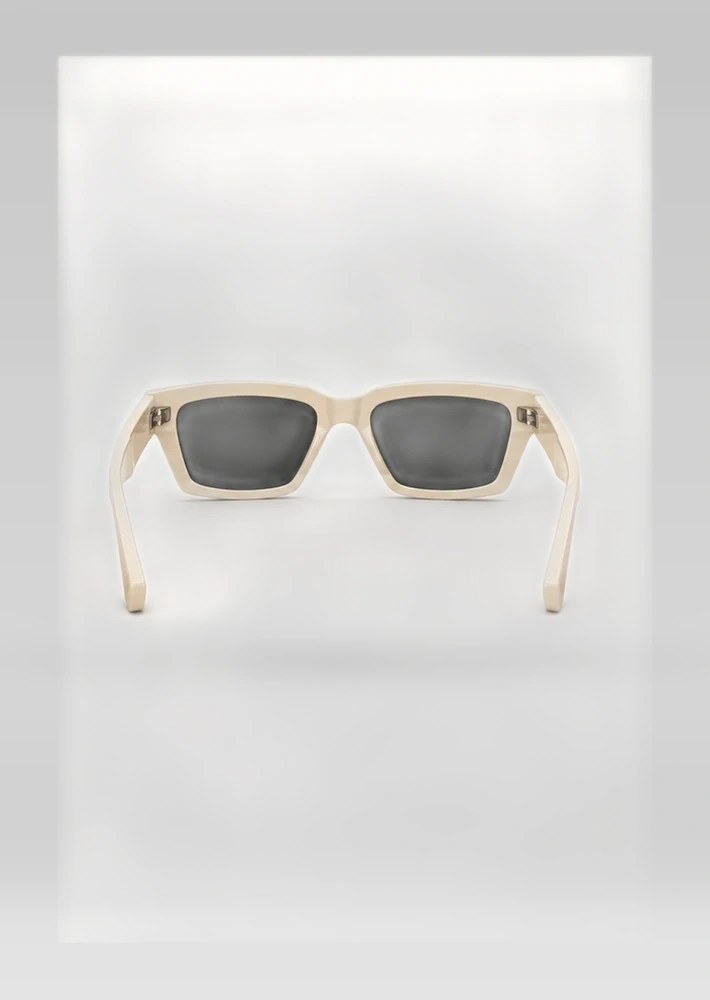
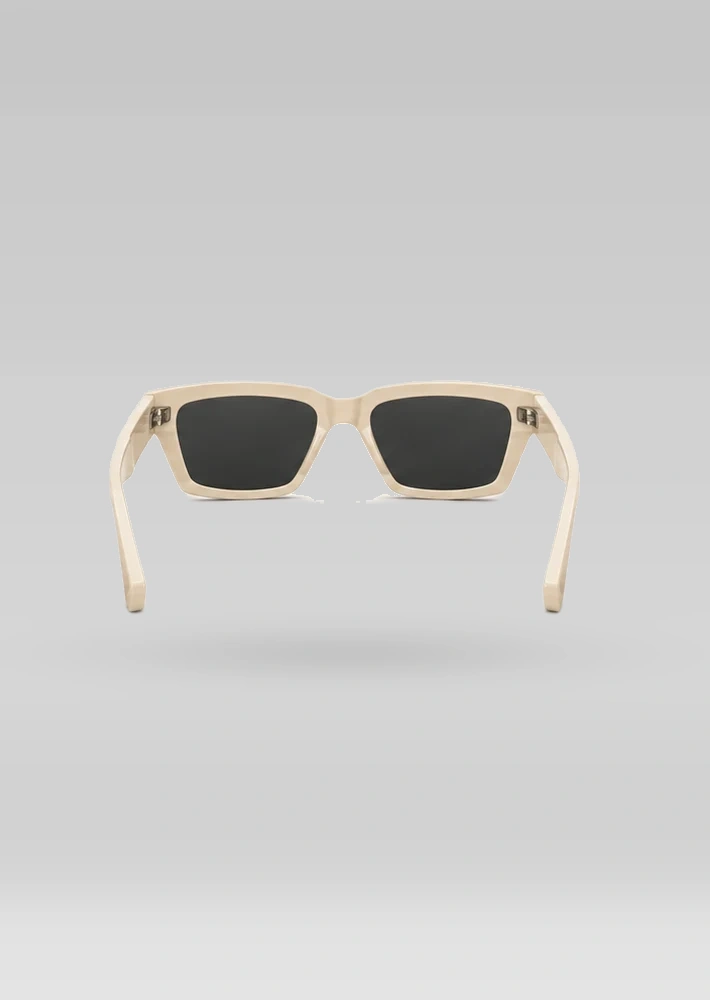
Repair four studio-grey inset background masks after visual QA

diff --git a/scripts/repair-studio-insets.py b/scripts/repair-studio-insets.py
@@ -1,0 +1,67 @@
+"""Repair four reviewed inset-panel masks using the original studio pipeline.
+
+Run after match-studio-backgrounds.py. Cropping applies only to segmentation;
+the garment pixels, output dimensions, grey profile and shadows still come
+from the existing processor. No source photograph is changed.
+"""
+import importlib.util
+import json
+from pathlib import Path
+
+import numpy as np
+from PIL import Image
+import rembg
+from scipy.ndimage import label
+
+ROOT = Path(__file__).resolve().parents[1]
+# Insets were checked visually against the original photographs.
+CROPS = {
+    'vn-pdf-p06-3-r5-c5-black-right-r04.webp': [.21, .06, .79, .94],
+    'vn-pdf-p04-3-r3-a5-bone-black-shadow-grid-right-r04.webp': [.19, .06, .80, .94],
+    'vn-p048-bone-back.webp': [.10, .06, .90, .94],
+    'pdf-p04-3-r3-a5-side.webp': [.20, .06, .80, .94],
+}
+# These enclosed background openings otherwise look like part of the object
+# to the general segmentation model. Remove only the connected, matching
+# background colour at the reviewed seed, bounded by the garment/frame.
+OPENINGS = {
+    'vn-pdf-p06-3-r5-c5-black-right-r04.webp': [.52, .27],
+    'vn-p048-bone-back.webp': [.50, .49],
+}
+spec = importlib.util.spec_from_file_location('studio', ROOT / 'scripts/match-studio-backgrounds.py')
+studio = importlib.util.module_from_spec(spec)
+spec.loader.exec_module(studio)
+original_remove = rembg.remove
+mapping = json.loads((ROOT / 'lib/product-photo-assets.json').read_text())
+
+for source in mapping:
+    name = Path(source).name
+    if name not in CROPS:
+        continue
+    fractions = CROPS[name]
+
+    def inset_mask(im, **kwargs):
+        w, h = im.size
+        box = tuple(round(f * (w if i % 2 == 0 else h)) for i, f in enumerate(fractions))
+        cropped = original_remove(im.crop(box), **kwargs)
+        mask = Image.new('L', im.size, 0)
+        mask.paste(cropped, box[:2])
+        if name in OPENINGS:
+            px, py = OPENINGS[name]
+            sx, sy = round(w * px), round(h * py)
+            rgb = np.asarray(im).astype(np.int16)
+            regions, _ = label(np.max(np.abs(rgb - rgb[sy, sx]), axis=2) <= 12)
+            region = regions[sy, sx]
+            if region:
+                values = np.asarray(mask).copy()
+                values[regions == region] = 0
+                mask = Image.fromarray(values)
+        return mask
+
+    rembg.remove = inset_mask
+    record = ROOT / 'work/studio-quality' / (Path(source).stem + '.json')
+    record.unlink(missing_ok=True)
+    studio.process(source)
+    print('Repaired', name, flush=True)
+
+rembg.remove = original_remove

diff --git a/docs/studio-grey-recovery.md b/docs/studio-grey-recovery.md
@@ -14,3 +14,10 @@ verifies the complete set and both website builds, and commits only the generate
 back to that branch. It produces the Namecheap archive with 0644/0755 permissions. It does not
 deploy production or alter the database. Cloudflare deployment follows a verified completed
 commit; the Namecheap ZIP must separately be extracted into the existing public_html folder.
+
+Final visual QA found four inset-panel segmentation defects. The corrected
+photographs are retained in source control. When regenerating this collection,
+run `python scripts/repair-studio-insets.py` after the eight batches have been
+assembled and before verification or packaging. It crops only the segmentation
+input; the original garment pixels, dimensions, grey profile and shadow method
+remain unchanged. It also clears the reviewed armhole and sunglasses openings.
